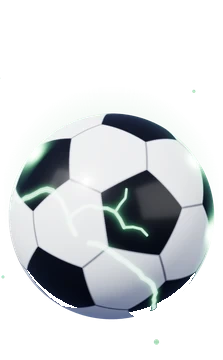
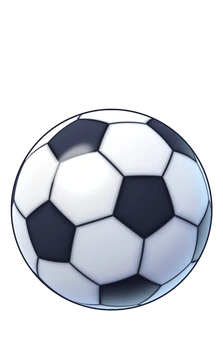
Новые мячи-паки по дизайну пользователя: обычный, редкий, эпический, легендарный, мифический
Claude-Session: https://claude.ai/code/session_01VpcaxWoBDaJdgiPA1Q4kL3

diff --git a/js/fcm.js b/js/fcm.js
@@ -183,9 +183,9 @@ const FCM = (() => {
           <button class="hm-play" data-dv-play><svg viewBox="0 0 24 24" aria-hidden="true"><path d="M8 5v14l11-7z" fill="currentColor"/></svg>Играть</button></div></div>` : homeHero(jg);
     // одна плитка «открыть сейчас»: самое ценное из того, что ждёт
     const T = A ? { a: 'data-act="angry"', img: 'img/packs/angry-360.webp?v=a2', s: 'Злой мяч', t: 'Открыть', n: A, c: 'angry' }
-      : P ? { a: 'data-act="balls"', img: 'img/packs/pk0-360.webp?v=b4', s: 'Мяч-дроп', t: 'Открыть', n: P, c: 'balls' }
-      : day ? { a: 'data-act="wheel"', img: 'img/packs/pk1-360.webp?v=b4', s: 'Бесплатно', t: 'Пак дня', n: '!', c: 'balls' }
-      : { a: 'data-fm-tab="store"', img: 'img/packs/pk3-360.webp?v=b4', s: 'Магазин', t: 'Паки', n: 0, c: 'packs' };
+      : P ? { a: 'data-act="balls"', img: 'img/packs/pk0-360.webp?v=b5', s: 'Мяч-дроп', t: 'Открыть', n: P, c: 'balls' }
+      : day ? { a: 'data-act="wheel"', img: 'img/packs/pk1-360.webp?v=b5', s: 'Бесплатно', t: 'Пак дня', n: '!', c: 'balls' }
+      : { a: 'data-fm-tab="store"', img: 'img/packs/pk3-360.webp?v=b5', s: 'Магазин', t: 'Паки', n: 0, c: 'packs' };
     const GM = ['career', 'ng-wordle', 'hl'].map((k) => `img/games/${k}.webp`);
     // лига канала: место недели (последнее известное) и «награда ждёт»
     if (typeof League !== 'undefined') League.load(false, () => { if (tab === 'play') render(); });
@@ -525,14 +525,14 @@ const FCM = (() => {
   // ---- пропуск сезона в новом виде: две линии наград (премиум сверху, бесплатно снизу), уровни, «Забрать» ----
   function rwCell(r, st, attr) {
     const l = Rewards.rewardLabel(r);
-    const art = r.pack !== undefined ? `<img src="img/packs/pk${r.pack}-160.webp?v=b4" alt="">` : r.coins ? '<i class="coin big"></i>' : l.ico;
+    const art = r.pack !== undefined ? `<img src="img/packs/pk${r.pack}-160.webp?v=b5" alt="">` : r.coins ? '<i class="coin big"></i>' : l.ico;
     return `<button class="fm-ps-c ${st}" ${attr}><span class="fm-ps-a">${art}</span><b>${esc(l.txt || l.name)}</b>${st === 'got' ? '<i>✓</i>' : st === 'ready' ? '<em>Забрать</em>' : st === 'buy' ? '<em class="pr">Премиум</em>' : ''}</button>`;
   }
   // ---- пропуск (5.11): сверху премиум-линия, снизу бесплатная, посередине уровни на линии прогресса; дорожка встаёт на текущий уровень ----
   function psCell(r, st, attr, prem, cw = 42) {
     const l = Rewards.rewardLabel(r);
     const pc = r.key && Cards.get(r.key);
-    const art = pc ? `<span class="ps2-card">${Cards.html(pc, { w: cw })}</span>` : r.pack !== undefined ? `<img class="ps2-pk" src="img/packs/pk${r.pack}-160.webp?v=b4" alt="">` : r.coins ? '<i class="coin big"></i>' : r.lime ? '<i class="lime big"></i>' : `<span class="ps2-ic">${l.ico}</span>`;
+    const art = pc ? `<span class="ps2-card">${Cards.html(pc, { w: cw })}</span>` : r.pack !== undefined ? `<img class="ps2-pk" src="img/packs/pk${r.pack}-160.webp?v=b5" alt="">` : r.coins ? '<i class="coin big"></i>' : r.lime ? '<i class="lime big"></i>' : `<span class="ps2-ic">${l.ico}</span>`;
     const name = r.lime ? `${r.lime}` : pc ? l.txt : r.pack !== undefined ? l.txt : r.coins ? `${r.coins}` : (l.name || l.txt);
     const tag = st === 'got' ? '<i class="ps2-ok">✓</i>' : st === 'ready' ? '<em>Забрать</em>' : /buy/.test(st) ? `<i class="ps2-lock">${ico('lock')}</i>` : '';
     return `<button class="ps2-c ${st} ${prem ? 'pr' : ''} ${pc ? 'sp' : ''}" ${attr}><span class="ps2-a">${art}</span><b>${esc(name)}</b>${tag}</button>`;
@@ -626,7 +626,7 @@ const FCM = (() => {
   }
   const price = (x) => `${x.coins ? `<span class="fm-pr c">${coin}${x.coins}</span>` : ''}${x.stars ? `<span class="fm-pr s">${StarShop.free() ? 'Бесплатно' : x.stars} ⭐</span>` : ''}`;
   const pkCard = (x, big) => `<button class="fm-pk lv${x.level} ${big ? 'big' : ''}" data-fm-pk="${x.id}">
-      <i class="fm-pk-glow"></i><img class="fm-pk-img" src="img/packs/pk${x.level}-360.webp?v=b4" alt="" loading="lazy" draggable="false">
+      <i class="fm-pk-glow"></i><img class="fm-pk-img" src="img/packs/pk${x.level}-360.webp?v=b5" alt="" loading="lazy" draggable="false">
       <span class="fm-pk-t"><b>${esc(x.name)}</b><span class="fm-chips">${chips(x).map((c) => `<em>${esc(c)}</em>`).join('')}</span></span>
       <span class="fm-pk-p">${price(x)}</span></button>`;
   function store() {
@@ -637,10 +637,10 @@ const FCM = (() => {
     if (sub.store === 'top') {
       const jack = list.find((x) => x.id === 'jack'), rest = list.filter((x) => ['basic', 'gold', 'legend'].includes(x.id));
       body = `<div class="fm-st-top">
-        ${jack ? `<button class="fm-st-hero" data-fm-pk="jack"><i class="fm-st-rays"></i><img src="img/packs/pk4-360.webp?v=b4" alt="" draggable="false">
+        ${jack ? `<button class="fm-st-hero" data-fm-pk="jack"><i class="fm-st-rays"></i><img src="img/packs/pk4-360.webp?v=b5" alt="" draggable="false">
           <span><small>Лучший пак</small><b>${esc(jack.name)}</b><em>${esc(jack.sub)}</em><span class="fm-pk-p">${price(jack)}</span></span></button>` : ''}
         <div class="fm-st-col">
-          <button class="fm-daypk ${day ? 'hot' : ''}" data-act="wheel"><img src="img/packs/pk0-160.webp?v=b4" alt=""><span><b>Пак дня</b><small>${day ? 'Бесплатно — забери сейчас' : 'Новый пак завтра'}</small></span><em>${day ? 'Забрать' : 'Завтра'}</em></button>
+          <button class="fm-daypk ${day ? 'hot' : ''}" data-act="wheel"><img src="img/packs/pk0-160.webp?v=b5" alt=""><span><b>Пак дня</b><small>${day ? 'Бесплатно — забери сейчас' : 'Новый пак завтра'}</small></span><em>${day ? 'Забрать' : 'Завтра'}</em></button>
           <div class="fm-st-mini">${rest.map((x) => pkCard(x)).join('')}</div>
         </div></div>`;
     } else if (sub.store === 'packs') body = `<div class="fm-pks">${list.map((x) => pkCard(x)).join('')}</div>`;
@@ -719,7 +719,7 @@ const FCM = (() => {
     const P0 = Cards.PACKS[x.level], P = { ...P0, w: effW(P0.w) }, tot = P.w.reduce((a, w) => a + w[1], 0);
     const el = document.createElement('div'); el.className = `fm-sheet lv${x.level}`;
     el.innerHTML = `<div class="fm-sh-card">
-        <div class="fm-sh-art"><i class="fm-st-rays"></i><img src="img/packs/pk${x.level}-360.webp?v=b4" alt="" draggable="false"></div>
+        <div class="fm-sh-art"><i class="fm-st-rays"></i><img src="img/packs/pk${x.level}-360.webp?v=b5" alt="" draggable="false"></div>
         <div class="fm-sh-info">
           <small>Пак</small><b>${esc(x.name)}</b>
           <span class="fm-chips">${chips(x).map((c) => `<em>${esc(c)}</em>`).join('')}</span>

diff --git a/js/packs.js b/js/packs.js
@@ -22,7 +22,7 @@ const PackOpen = (() => {
   // рисунок пака по редкости (img/packs/pk*.webp); объём нарисован на самой картинке
   const PIMG = ['pk-silver', 'pk-blue', 'pk-purple', 'pk-gold', 'pk-black'];
   // паки-мячи (4.11): 3D-рендер, tools/art/packforms.html (renderBall), node tools/art/render.js balls
-  const pimg = (lv, sz) => `img/packs/pk${lv}-${sz === 'xxl' || sz === 'xl' ? 360 : 160}.webp?v=b4`;
+  const pimg = (lv, sz) => `img/packs/pk${lv}-${sz === 'xxl' || sz === 'xl' ? 360 : 160}.webp?v=b5`;
   const art = (lv, sz = '', cap = false) => `<span class="fpk p${lv} ${sz} pimg"><span class="fpk-b">
       <i class="fpk-f" style="-webkit-mask-image:url(${pimg(lv, sz)});mask-image:url(${pimg(lv, sz)})"><img class="fpk-img" src="${pimg(lv, sz)}" alt="" decoding="async" draggable="false"><i class="fpk-sh"></i><em>${LV[lv].short}</em>${cap ? '<i class="po-cap"></i>' : ''}</i>
       <i class="fpk-s"></i><i class="fpk-k"></i></span></span>`;
@@ -240,7 +240,7 @@ const PackOpen = (() => {
     const [art, big, sub, col] = p.coins ? [`<span class="pz-coins">${'<i class="coin"></i>'.repeat(5)}</span>`, `+${F(p.coins * K)}`, 'монет', '#ffd23c']
       : p.lime ? ['<i class="lime pz-lime"></i>', `+${F(p.lime)}`, 'лаймовых очков прокачки', '#c6ff3d']
       : p.xp ? ['<span class="pz-xp">★</span>', `+${p.xp}`, 'очков пропуска', '#7fd8ff']
-      : [`<img class="pz-pk" src="img/packs/pk${p.pack}-360.webp?v=b4" alt="">`, LV[p.pack].name, 'откроется следом', LV[p.pack].css];
+      : [`<img class="pz-pk" src="img/packs/pk${p.pack}-360.webp?v=b5" alt="">`, LV[p.pack].name, 'откроется следом', LV[p.pack].css];
     setCol(el, col);
     $('.po-k', el).textContent = 'Мяч-дроп'; const nm = $('.po-name', el); nm.textContent = sub.toUpperCase(); nm.classList.remove('long'); slam(nm);
     stage.innerHTML = `<div class="po-prize"><i class="pz-rays"></i><span class="pz-art">${art}</span><b class="pz-n">${esc(big)}</b><small>${esc(sub)}</small></div>`;

diff --git a/index.html b/index.html
@@ -768,7 +768,7 @@
 
 <script defer src="js/core.js?v=20261114-pl2"></script>
 <script defer src="js/plate.js?v=20261114-pl3"></script>
-<script defer src="js/notify.js?v=20261122-bl2"></script>
+<script defer src="js/notify.js?v=20261122-nb1"></script>
 <script defer src="js/drag.js?v=20261014a"></script>
 <script defer src="js/relay.js?v=20261014-relay3"></script>
 <script defer src="js/online.js?v=20261121-on2"></script>
@@ -828,7 +828,7 @@
 <link rel="stylesheet" href="css/skin.css?v=20261122-bl2">
 <link rel="stylesheet" href="css/clean.css?v=20261122-cl2">
 <script defer src="js/social.js?v=20261015-shop1"></script>
-<script defer src="js/packs.js?v=20261122-bl2"></script>
+<script defer src="js/packs.js?v=20261122-nb1"></script>
 <script defer src="js/rewards.js?v=20261114-pl2"></script>
 <script defer src="js/division.js?v=20261114-on1"></script>
 <script defer src="js/sbc.js?v=20261016-trk"></script>
@@ -886,11 +886,11 @@
 <script defer src="js/release.js?v=20261027-u1"></script>
 <script defer src="js/board.js?v=20261105-ad1"></script>
 <script defer src="js/track.js?v=20261016-trk"></script>
-<script defer src="js/clubpath.js?v=20261122-bl2"></script>
+<script defer src="js/clubpath.js?v=20261122-nb1"></script>
 <script defer src="js/app.js?v=20261105-dv1"></script>
-<script defer src="js/onboard.js?v=20261122-bl2"></script>
+<script defer src="js/onboard.js?v=20261122-nb1"></script>
 <script defer src="js/league.js?v=20261122-lg3"></script>
-<script defer src="js/fcm.js?v=20261122-bl2"></script>
+<script defer src="js/fcm.js?v=20261122-nb1"></script>
 <script defer src="js/fx.js?v=20261114-rs1"></script>
 <script>
 /* Автообновление: Telegram держит старую копию игры. При запуске (и при возврате в игру на главной) сверяем

diff --git a/js/clubpath.js b/js/clubpath.js
@@ -120,7 +120,7 @@ const ClubPath = (() => {
     const c = CH[sel - 1], tk = tokens(sel), max = c.steps[c.steps.length - 1][0], all = c.tasks.every((t, i) => isDone(sel, i)), got = s.done.includes(sel);
     const chips = CH.map((x) => `<button class="cr-ch ${x.id === sel ? 'on' : ''} ${open(x.id) ? '' : 'lock'} ${s.done.includes(x.id) ? 'ok' : ''}" data-cr-ch="${x.id}" style="--cc:${x.col}"><small>Глава</small><b>${x.id}</b>${open(x.id) ? '' : lock}</button>`).join('');
     const steps = c.steps.map(([t, r], j) => { const st = s.st[sel + ':' + j] ? 'got' : tk >= t ? 'ready' : 'lock', l = Rewards.rewardLabel(r);
-      const art = r.pack !== undefined ? `<img src="img/packs/pk${r.pack}-160.webp?v=b4" alt="">` : r.coins ? '<i class="coin big"></i>' : l.ico;
+      const art = r.pack !== undefined ? `<img src="img/packs/pk${r.pack}-160.webp?v=b5" alt="">` : r.coins ? '<i class="coin big"></i>' : l.ico;
       return `<button class="cr-st ${st}" style="left:${(t / max) * 100}%" ${st === 'ready' ? `data-cr-st="${j}"` : ''}><span>${art}</span><b>${esc(l.txt || l.name)}</b><em>${t}</em></button>`; }).join('');
     // 21.11: проще — справа одно «следующее задание» крупно с большой кнопкой, под ним остальные задания короткими строками
     // (тап по строке — тоже «Играть»); слева глава, жетоны с дорожкой наград и главная награда

diff --git a/js/notify.js b/js/notify.js
@@ -14,7 +14,7 @@ const Notify = (() => {
   const face = (key) => { try { const c = Cards.get(key); if (!c) return ''; const src = c.faceUrl || (c.face && typeof faceSrc === 'function' ? faceSrc(c.face) : ''); return src || ''; } catch (e) { return ''; } };
   return {
     LIME,
-    pass: (lv, max) => P({ caption: 'Пропуск', counter: `${lv}/${max}`, title: 'Новый уровень', image: 'img/packs/pk2-160.webp?v=b4', tint: 'purple' }, `Пропуск: уровень ${lv}!`),
+    pass: (lv, max) => P({ caption: 'Пропуск', counter: `${lv}/${max}`, title: 'Новый уровень', image: 'img/packs/pk2-160.webp?v=b5', tint: 'purple' }, `Пропуск: уровень ${lv}!`),
     quest: (t, n) => P({ caption: 'Задание выполнено', counter: n > 1 ? `${n}/${n}` : '', title: t, tint: 'green' }, `Задание выполнено: ${t} ✓`),
     division: (name) => P({ caption: 'Повышение', title: name, tint: 'gold', fonts: 'sport', duration: 3200 }, `Новый дивизион: ${name}!`),
     record: (v) => P({ caption: 'Новый рекорд', title: String(v), tint: 'green', fonts: 'sport' }, `Новый рекорд: ${v}`),

diff --git a/js/onboard.js b/js/onboard.js
@@ -82,7 +82,7 @@ const Onboard = (() => {
   function pack() {
     const s = S();
     el.innerHTML = `<div class="ob-pack"><small>Награда за первый выход</small><b>Стартовый пак</b><p>18 карточек: 4 золотых, 6 серебряных, 8 бронзовых</p>
-      <img class="ob-pk" src="img/packs/pk3-360.webp?v=b4" alt=""><button class="ob-go" data-ob="open">Открыть</button></div>`;
+      <img class="ob-pk" src="img/packs/pk3-360.webp?v=b5" alt=""><button class="ob-go" data-ob="open">Открыть</button></div>`;
     if (s.packGot) { el.querySelector('[data-ob="open"]').textContent = 'Дальше'; el.querySelector('[data-ob="open"]').dataset.ob = 'next'; }
   }
   let ecoTry = false; // запрос стартового пака уже ушёл (не сохраняется)

diff --git a/tools/art/balls/embed.py b/tools/art/balls/embed.py
@@ -1,0 +1,22 @@
+# Встраивает мячи пользователя (640×640, мяч r≈241 в центре, свечение вокруг) в прежний кадр паков img/packs/pk{lv}-{360,160}.webp:
+# кадр 223×360, центр мяча (111.5, 210), радиус 102 — как у старых, чтобы все места игры, где мяч обрезается под квадрат, остались верными.
+import sys, math
+from PIL import Image, ImageChops
+src, out = sys.argv[1], sys.argv[2]
+names = ['ball_01_common', 'ball_02_rare', 'ball_03_epic', 'ball_04_legendary', 'ball_05_mythic']
+for lv, n in enumerate(names):
+    im = Image.open(f'{src}/{n}.png').convert('RGBA')
+    # мягко гасим свечение к краю кадра по ширине (иначе обрежется ровной линией)
+    W = 640; m = Image.new('L', (W, W)); px = m.load(); c = (W - 1) / 2
+    for y in range(W):
+        for x in range(W):
+            r = math.hypot(x - c, y - c); t = (r - 245) / (262 - 245)
+            px[x, y] = 255 if t <= 0 else 0 if t >= 1 else int(255 * (1 - t * t * (3 - 2 * t)))
+    im.putalpha(ImageChops.multiply(im.split()[3], m))
+    for H in (360, 160):
+        k = H / 360; Wf = round(223 * k); s = 102 * k / 241
+        b = im.resize((round(640 * s), round(640 * s)), Image.LANCZOS)
+        fr = Image.new('RGBA', (Wf, H), (0, 0, 0, 0))
+        fr.alpha_composite(b, (round(111.5 * k - b.width / 2), round(210 * k - b.height / 2)))
+        fr.save(f'{out}/pk{lv}-{H}.webp', quality=92, method=6)
+    print(lv, 'ok')

diff --git a/docs/product-plan.md b/docs/product-plan.md
@@ -457,3 +457,4 @@ tackle, receive, spin, juggle, gk_idle, gk_dive, gk_catch` (`tools/art/player/re
 - **Баги и тормоза (22.11, по скриншотам)** — «Подробнее» в окне карточки открывало старое окно, не подогнанное под горизонтальный экран: кнопка убрана (всё уже в окне), вместо неё номер карточки «3 / 30»; «Прокачать» снова лаймовая. Тормоза: убраны анимации, которые перерисовывали экран каждый кадр поверх 3D-стадиона — свечение (box-shadow), мигание яркости (filter), фильтр-тень на качающейся карточке, вращающиеся лучи звезды команды, диагональные полосы во весь экран, а также анимации спрятанной старой главной (прожекторы #hub, блики). Блик по кнопкам — сдвигом (transform). Состав в «Команде» снова выпрыгивает по очереди: карточки ждут, пока 3D-сцена отрисуется, иначе анимация пролетала за первые тяжёлые кадры.
 - **Шансы паков (22.11, по «да» пользователя)** — `ECON.packs[].top`: гарантированная карта для состава (сверхредкий 80+, эпический 82+, легендарный 84+, «ДЖЕКСОН!!» 86+), бронзы меньше (обычный 35%, в легендарном и «ДЖЕКСОН!!» нет), золота больше, `decay.gold` 0.75 → 0.86. Цены прежние. Лучшая карта (медиана): 74 / 81 / 83 / 85 / 87 вместо 68 / 77 / 78 / 79 / 81. Игра (`Cards.packCards`) и сервер (`ecoRoll`) одинаково.
 - **Без мелких подписей и мячи (22.11)** — `css/clean.css` (последним): скрыты второстепенные строки-пояснения по всей игре («3 карты», «до 90: прокачай игроков», описания игр и паков, «очков до уровня…», «Обновятся через» и т. п.); в разделах слева остаётся только «N наград» (`small.hot`). Мячи-паки: лак (clearcoat) и цветной контровой свет (`tools/art/packforms.html`), золотой — насыщенно-золотой; в магазине — свечение цвета редкости за мячом и цветная полоса в строке пака, две цены — столбиком.
+- **Мячи пользователя (22.11)** — дизайн мячей от пользователя (обычный, редкий, эпический, легендарный, мифический; исходники `tools/art/balls/ball_0*.png`) встроен вместо 3D-рендера: `python3 tools/art/balls/embed.py tools/art/balls img/packs` кладёт их в прежний кадр `pk{lv}-{360,160}.webp` (223×360, центр 111.5/210, радиус 102), свечение мягко гасится к краю. Злой мяч — прежний.
